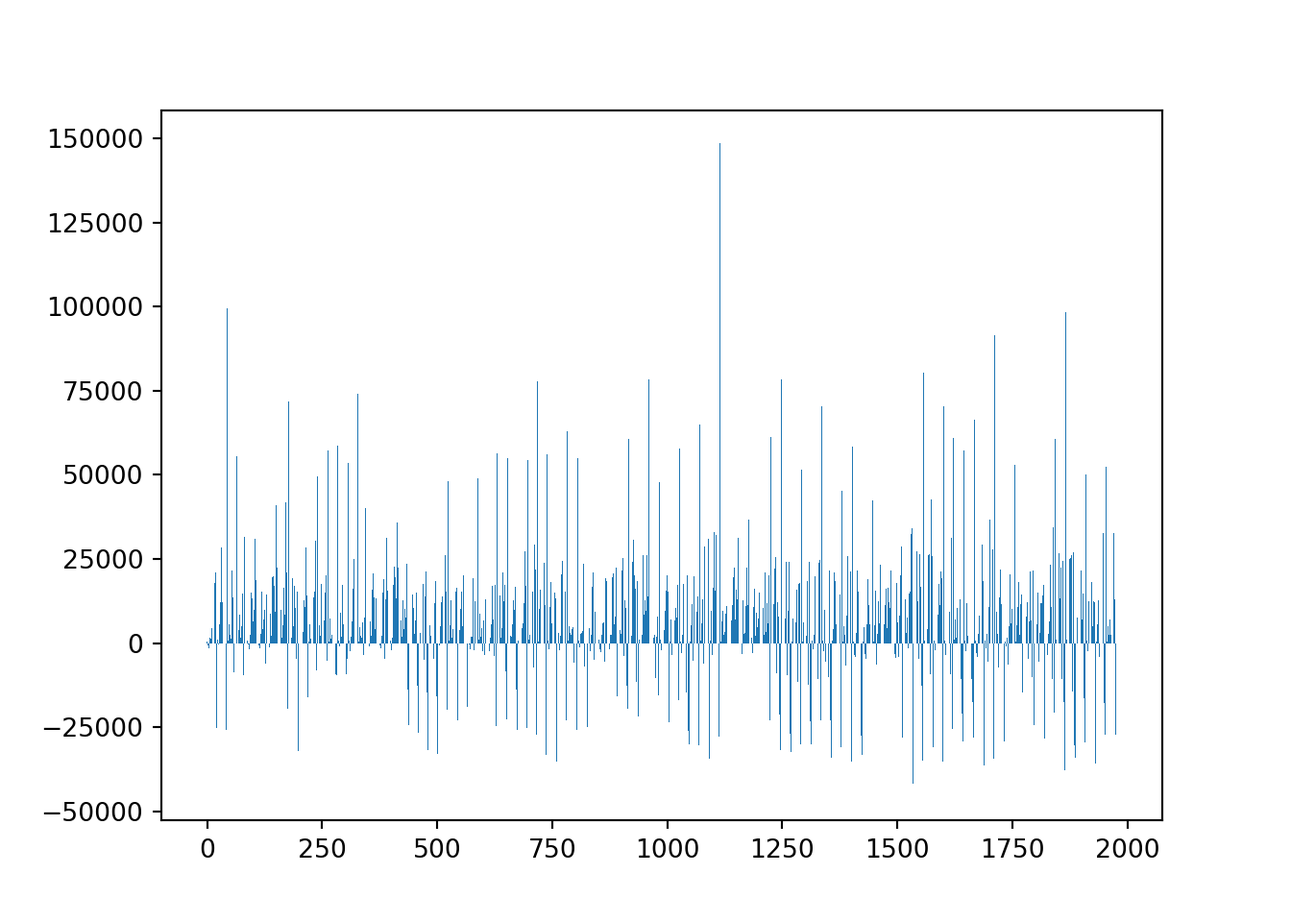
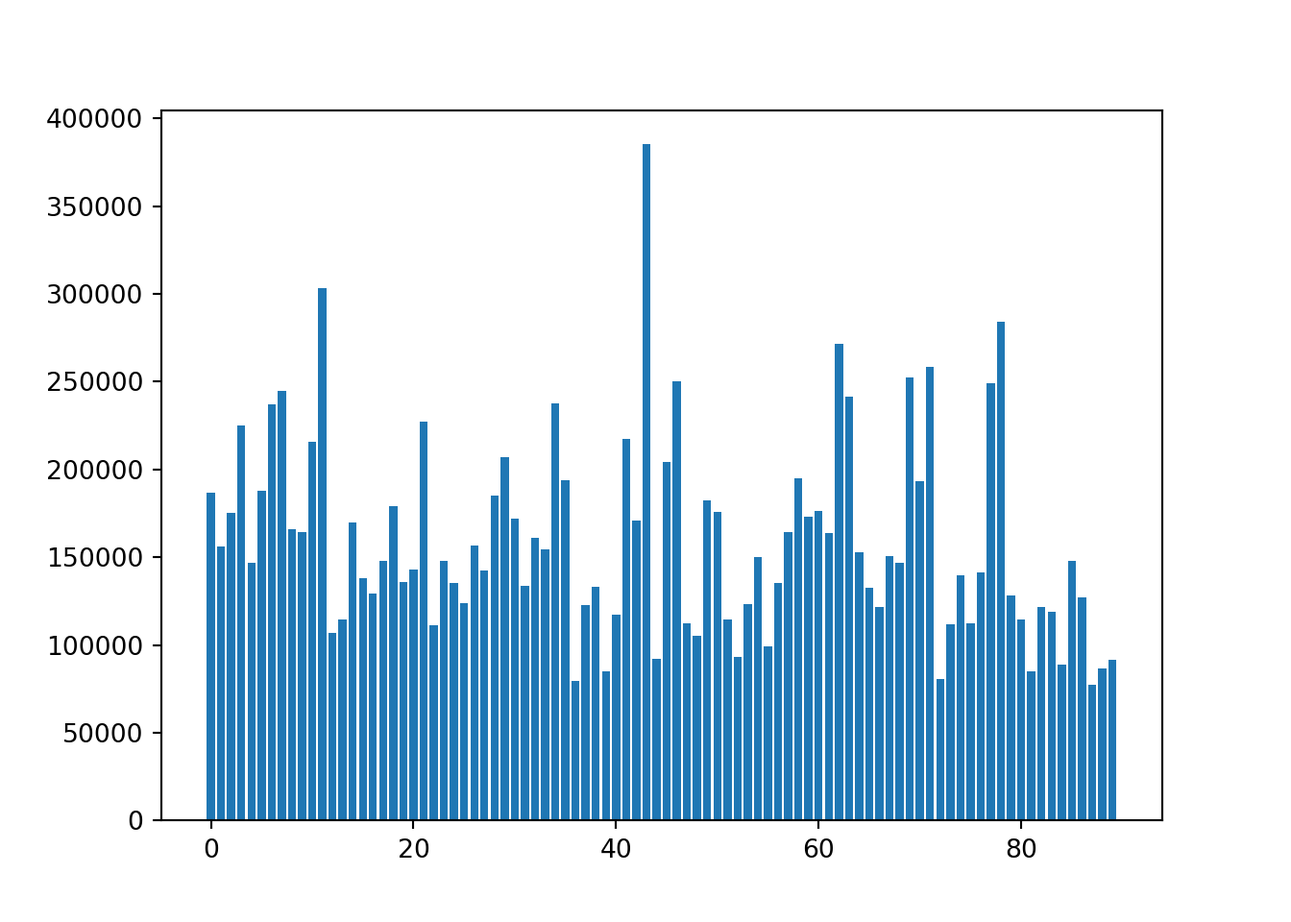
fixing marketing contribution plot

diff --git a/docs/scripting.html b/docs/scripting.html
@@ -455,23 +455,28 @@ code span.wa { color: #60a0b0; font-weight: bold; font-style: italic; } /* Warni
 <div class="sourceCode cell-code" id="cb10"><pre class="sourceCode r code-with-copy"><code class="sourceCode r"><span id="cb10-1"><a href="#cb10-1" aria-hidden="true" tabindex="-1"></a>mc <span class="ot">&lt;-</span> df <span class="sc">|&gt;</span></span>
 <span id="cb10-2"><a href="#cb10-2" aria-hidden="true" tabindex="-1"></a>  <span class="fu">mutate</span>(<span class="at">Marketing_Contribution =</span> Gross_Profit <span class="sc">-</span> Marketing_Spend)</span>
 <span id="cb10-3"><a href="#cb10-3" aria-hidden="true" tabindex="-1"></a></span>
-<span id="cb10-4"><a href="#cb10-4" aria-hidden="true" tabindex="-1"></a>mc <span class="ot">&lt;-</span> mc <span class="sc">|&gt;</span> </span>
-<span id="cb10-5"><a href="#cb10-5" aria-hidden="true" tabindex="-1"></a>  <span class="fu">mutate</span>(<span class="at">mycolor =</span> <span class="fu">ifelse</span>(Marketing_Contribution<span class="sc">&gt;</span><span class="dv">0</span>, <span class="st">"type2"</span>, <span class="st">"type1"</span>))</span>
-<span id="cb10-6"><a href="#cb10-6" aria-hidden="true" tabindex="-1"></a></span>
-<span id="cb10-7"><a href="#cb10-7" aria-hidden="true" tabindex="-1"></a><span class="fu">ggplot</span>(mc, <span class="fu">aes</span>(<span class="at">x=</span>Date, <span class="at">y=</span>Marketing_Contribution)) <span class="sc">+</span></span>
-<span id="cb10-8"><a href="#cb10-8" aria-hidden="true" tabindex="-1"></a>  <span class="fu">geom_segment</span>(<span class="fu">aes</span>(<span class="at">x=</span>Date, <span class="at">xend=</span>Date, <span class="at">y=</span><span class="dv">0</span>, <span class="at">yend=</span>Marketing_Contribution, <span class="at">color=</span>mycolor), <span class="at">size=</span><span class="fl">1.3</span>, <span class="at">alpha=</span><span class="fl">0.9</span>) <span class="sc">+</span></span>
-<span id="cb10-9"><a href="#cb10-9" aria-hidden="true" tabindex="-1"></a>  <span class="fu">theme_light</span>() <span class="sc">+</span></span>
-<span id="cb10-10"><a href="#cb10-10" aria-hidden="true" tabindex="-1"></a>  <span class="fu">theme</span>(</span>
-<span id="cb10-11"><a href="#cb10-11" aria-hidden="true" tabindex="-1"></a>    <span class="at">legend.position =</span> <span class="st">"none"</span>,</span>
-<span id="cb10-12"><a href="#cb10-12" aria-hidden="true" tabindex="-1"></a>    <span class="at">panel.border =</span> <span class="fu">element_blank</span>(),</span>
-<span id="cb10-13"><a href="#cb10-13" aria-hidden="true" tabindex="-1"></a>    <span class="at">plot.title =</span> <span class="fu">element_text</span>(<span class="at">size =</span> <span class="dv">14</span>),</span>
-<span id="cb10-14"><a href="#cb10-14" aria-hidden="true" tabindex="-1"></a>    <span class="at">panel.grid =</span> <span class="fu">element_blank</span>(),</span>
-<span id="cb10-15"><a href="#cb10-15" aria-hidden="true" tabindex="-1"></a>    <span class="at">axis.text.x=</span><span class="fu">element_blank</span>(),</span>
-<span id="cb10-16"><a href="#cb10-16" aria-hidden="true" tabindex="-1"></a>    <span class="at">axis.ticks.x=</span><span class="fu">element_blank</span>(),</span>
-<span id="cb10-17"><a href="#cb10-17" aria-hidden="true" tabindex="-1"></a>    <span class="at">axis.title.x =</span> <span class="fu">element_blank</span>(),</span>
-<span id="cb10-18"><a href="#cb10-18" aria-hidden="true" tabindex="-1"></a>    <span class="at">axis.title.y =</span> <span class="fu">element_blank</span>()</span>
-<span id="cb10-19"><a href="#cb10-19" aria-hidden="true" tabindex="-1"></a>  ) <span class="sc">+</span></span>
-<span id="cb10-20"><a href="#cb10-20" aria-hidden="true" tabindex="-1"></a>  <span class="fu">ggtitle</span>(<span class="st">"Marketing Contribution"</span>)</span></code><button title="Copy to Clipboard" class="code-copy-button"><i class="bi"></i></button></pre></div>
+<span id="cb10-4"><a href="#cb10-4" aria-hidden="true" tabindex="-1"></a>mc <span class="ot">&lt;-</span> mc <span class="sc">|&gt;</span> <span class="fu">group_by</span>(Date)</span>
+<span id="cb10-5"><a href="#cb10-5" aria-hidden="true" tabindex="-1"></a>mc <span class="ot">&lt;-</span> mc <span class="sc">|&gt;</span> <span class="fu">summarise</span>(</span>
+<span id="cb10-6"><a href="#cb10-6" aria-hidden="true" tabindex="-1"></a>    <span class="at">Marketing_Contribution =</span> <span class="fu">sum</span>(Marketing_Contribution)</span>
+<span id="cb10-7"><a href="#cb10-7" aria-hidden="true" tabindex="-1"></a>)</span>
+<span id="cb10-8"><a href="#cb10-8" aria-hidden="true" tabindex="-1"></a><span class="fu">print</span>(mc)</span></code><button title="Copy to Clipboard" class="code-copy-button"><i class="bi"></i></button></pre></div>
+<div class="cell-output cell-output-stdout">
+<pre><code># A tibble: 90 × 2
+   Date      Marketing_Contribution
+   &lt;chr&gt;                      &lt;dbl&gt;
+ 1 1/1/2017                 186891.
+ 2 1/10/2017                    NA 
+ 3 1/11/2017                175309.
+ 4 1/12/2017                    NA 
+ 5 1/13/2017                    NA 
+ 6 1/14/2017                    NA 
+ 7 1/15/2017                236828.
+ 8 1/16/2017                244637.
+ 9 1/17/2017                    NA 
+10 1/18/2017                    NA 
+# … with 80 more rows</code></pre>
+</div>
+<div class="sourceCode cell-code" id="cb12"><pre class="sourceCode r code-with-copy"><code class="sourceCode r"><span id="cb12-1"><a href="#cb12-1" aria-hidden="true" tabindex="-1"></a><span class="fu">barplot</span>(mc<span class="sc">$</span>Marketing_Contribution, <span class="at">main=</span><span class="st">"Marketing Contribution by Day"</span>, <span class="at">border=</span><span class="st">"#545658"</span>, <span class="at">col=</span><span class="st">"#ED0000"</span>)</span></code><button title="Copy to Clipboard" class="code-copy-button"><i class="bi"></i></button></pre></div>
 <div class="cell-output-display">
 <p><img src="scripting_files/figure-html/unnamed-chunk-7-1.png" class="img-fluid" width="672"></p>
 </div>
@@ -481,22 +486,22 @@ code span.wa { color: #60a0b0; font-weight: bold; font-style: italic; } /* Warni
 <h2 class="anchored" data-anchor-id="question-5">Question 5</h2>
 <p>Find correlation between Paid Search Revenue and Organic Search Revenue - as a calculation as well as a plot.</p>
 <div class="cell">
-<div class="sourceCode cell-code" id="cb11"><pre class="sourceCode r code-with-copy"><code class="sourceCode r"><span id="cb11-1"><a href="#cb11-1" aria-hidden="true" tabindex="-1"></a>search <span class="ot">&lt;-</span> df <span class="sc">|&gt;</span></span>
-<span id="cb11-2"><a href="#cb11-2" aria-hidden="true" tabindex="-1"></a>  <span class="fu">filter</span>(df<span class="sc">$</span>Channel <span class="sc">%in%</span> <span class="fu">c</span>(<span class="st">"Paid Search"</span>, <span class="st">"Organic Search"</span>))</span>
-<span id="cb11-3"><a href="#cb11-3" aria-hidden="true" tabindex="-1"></a>search <span class="ot">&lt;-</span> search <span class="sc">|&gt;</span></span>
-<span id="cb11-4"><a href="#cb11-4" aria-hidden="true" tabindex="-1"></a>  <span class="fu">mutate</span>(<span class="st">"Paid"</span> <span class="ot">=</span> <span class="fu">if_else</span>(Channel <span class="sc">==</span> <span class="st">"Paid Search"</span>, Revenue, <span class="dv">0</span>)) <span class="sc">|&gt;</span></span>
-<span id="cb11-5"><a href="#cb11-5" aria-hidden="true" tabindex="-1"></a>  <span class="fu">mutate</span>(<span class="st">"Organic"</span> <span class="ot">=</span> <span class="fu">if_else</span>(Channel <span class="sc">==</span> <span class="st">"Organic Search"</span>, Revenue, <span class="dv">0</span>))</span>
-<span id="cb11-6"><a href="#cb11-6" aria-hidden="true" tabindex="-1"></a>search <span class="ot">&lt;-</span> search <span class="sc">|&gt;</span> <span class="fu">group_by</span>(Date)</span>
-<span id="cb11-7"><a href="#cb11-7" aria-hidden="true" tabindex="-1"></a>search <span class="ot">&lt;-</span> search <span class="sc">|&gt;</span> <span class="fu">summarise</span>(</span>
-<span id="cb11-8"><a href="#cb11-8" aria-hidden="true" tabindex="-1"></a>    <span class="at">Paid =</span> <span class="fu">sum</span>(Paid),</span>
-<span id="cb11-9"><a href="#cb11-9" aria-hidden="true" tabindex="-1"></a>    <span class="at">Organic =</span> <span class="fu">sum</span>(Organic)</span>
-<span id="cb11-10"><a href="#cb11-10" aria-hidden="true" tabindex="-1"></a>)</span>
-<span id="cb11-11"><a href="#cb11-11" aria-hidden="true" tabindex="-1"></a>search[<span class="fu">is.na</span>(search)] <span class="ot">&lt;-</span> <span class="dv">0</span></span>
-<span id="cb11-12"><a href="#cb11-12" aria-hidden="true" tabindex="-1"></a><span class="fu">cor</span>(search<span class="sc">$</span>Paid, search<span class="sc">$</span>Organic)</span></code><button title="Copy to Clipboard" class="code-copy-button"><i class="bi"></i></button></pre></div>
+<div class="sourceCode cell-code" id="cb13"><pre class="sourceCode r code-with-copy"><code class="sourceCode r"><span id="cb13-1"><a href="#cb13-1" aria-hidden="true" tabindex="-1"></a>search <span class="ot">&lt;-</span> df <span class="sc">|&gt;</span></span>
+<span id="cb13-2"><a href="#cb13-2" aria-hidden="true" tabindex="-1"></a>  <span class="fu">filter</span>(df<span class="sc">$</span>Channel <span class="sc">%in%</span> <span class="fu">c</span>(<span class="st">"Paid Search"</span>, <span class="st">"Organic Search"</span>))</span>
+<span id="cb13-3"><a href="#cb13-3" aria-hidden="true" tabindex="-1"></a>search <span class="ot">&lt;-</span> search <span class="sc">|&gt;</span></span>
+<span id="cb13-4"><a href="#cb13-4" aria-hidden="true" tabindex="-1"></a>  <span class="fu">mutate</span>(<span class="st">"Paid"</span> <span class="ot">=</span> <span class="fu">if_else</span>(Channel <span class="sc">==</span> <span class="st">"Paid Search"</span>, Revenue, <span class="dv">0</span>)) <span class="sc">|&gt;</span></span>
+<span id="cb13-5"><a href="#cb13-5" aria-hidden="true" tabindex="-1"></a>  <span class="fu">mutate</span>(<span class="st">"Organic"</span> <span class="ot">=</span> <span class="fu">if_else</span>(Channel <span class="sc">==</span> <span class="st">"Organic Search"</span>, Revenue, <span class="dv">0</span>))</span>
+<span id="cb13-6"><a href="#cb13-6" aria-hidden="true" tabindex="-1"></a>search <span class="ot">&lt;-</span> search <span class="sc">|&gt;</span> <span class="fu">group_by</span>(Date)</span>
+<span id="cb13-7"><a href="#cb13-7" aria-hidden="true" tabindex="-1"></a>search <span class="ot">&lt;-</span> search <span class="sc">|&gt;</span> <span class="fu">summarise</span>(</span>
+<span id="cb13-8"><a href="#cb13-8" aria-hidden="true" tabindex="-1"></a>    <span class="at">Paid =</span> <span class="fu">sum</span>(Paid),</span>
+<span id="cb13-9"><a href="#cb13-9" aria-hidden="true" tabindex="-1"></a>    <span class="at">Organic =</span> <span class="fu">sum</span>(Organic)</span>
+<span id="cb13-10"><a href="#cb13-10" aria-hidden="true" tabindex="-1"></a>)</span>
+<span id="cb13-11"><a href="#cb13-11" aria-hidden="true" tabindex="-1"></a>search[<span class="fu">is.na</span>(search)] <span class="ot">&lt;-</span> <span class="dv">0</span></span>
+<span id="cb13-12"><a href="#cb13-12" aria-hidden="true" tabindex="-1"></a><span class="fu">cor</span>(search<span class="sc">$</span>Paid, search<span class="sc">$</span>Organic)</span></code><button title="Copy to Clipboard" class="code-copy-button"><i class="bi"></i></button></pre></div>
 <div class="cell-output cell-output-stdout">
 <pre><code>[1] 0.8457697</code></pre>
 </div>
-<div class="sourceCode cell-code" id="cb13"><pre class="sourceCode r code-with-copy"><code class="sourceCode r"><span id="cb13-1"><a href="#cb13-1" aria-hidden="true" tabindex="-1"></a><span class="fu">plot</span>(search<span class="sc">$</span>Paid, search<span class="sc">$</span>Organic)</span></code><button title="Copy to Clipboard" class="code-copy-button"><i class="bi"></i></button></pre></div>
+<div class="sourceCode cell-code" id="cb15"><pre class="sourceCode r code-with-copy"><code class="sourceCode r"><span id="cb15-1"><a href="#cb15-1" aria-hidden="true" tabindex="-1"></a><span class="fu">plot</span>(search<span class="sc">$</span>Paid, search<span class="sc">$</span>Organic)</span></code><button title="Copy to Clipboard" class="code-copy-button"><i class="bi"></i></button></pre></div>
 <div class="cell-output-display">
 <p><img src="scripting_files/figure-html/unnamed-chunk-8-1.png" class="img-fluid" width="672"></p>
 </div>
@@ -509,9 +514,9 @@ code span.wa { color: #60a0b0; font-weight: bold; font-style: italic; } /* Warni
 <h2 class="anchored" data-anchor-id="question-1-1">Question 1</h2>
 <p>Read the data into an R or Pandas data frame. Display the top 10 rows of the data frame.</p>
 <div class="cell">
-<div class="sourceCode cell-code" id="cb14"><pre class="sourceCode python code-with-copy"><code class="sourceCode python"><span id="cb14-1"><a href="#cb14-1" aria-hidden="true" tabindex="-1"></a><span class="im">import</span> pandas <span class="im">as</span> pd</span>
-<span id="cb14-2"><a href="#cb14-2" aria-hidden="true" tabindex="-1"></a>df <span class="op">=</span> pd.read_csv(<span class="st">"data/scripting-test.csv"</span>)</span>
-<span id="cb14-3"><a href="#cb14-3" aria-hidden="true" tabindex="-1"></a>df.head(<span class="dv">10</span>)</span></code><button title="Copy to Clipboard" class="code-copy-button"><i class="bi"></i></button></pre></div>
+<div class="sourceCode cell-code" id="cb16"><pre class="sourceCode python code-with-copy"><code class="sourceCode python"><span id="cb16-1"><a href="#cb16-1" aria-hidden="true" tabindex="-1"></a><span class="im">import</span> pandas <span class="im">as</span> pd</span>
+<span id="cb16-2"><a href="#cb16-2" aria-hidden="true" tabindex="-1"></a>df <span class="op">=</span> pd.read_csv(<span class="st">"data/scripting-test.csv"</span>)</span>
+<span id="cb16-3"><a href="#cb16-3" aria-hidden="true" tabindex="-1"></a>df.head(<span class="dv">10</span>)</span></code><button title="Copy to Clipboard" class="code-copy-button"><i class="bi"></i></button></pre></div>
 <div class="cell-output cell-output-stdout">
 <pre><code>       Date         Channel  ... Gross_Profit  Marketing_Spend
 0  1/1/2017  Organic Social  ...       700.84           201.79
@@ -533,22 +538,22 @@ code span.wa { color: #60a0b0; font-weight: bold; font-style: italic; } /* Warni
 <h2 class="anchored" data-anchor-id="question-2-1">Question 2</h2>
 <p>Within this 90-day data set, we observe traffic from an “Unidentified”marketing channel coming to the site. We would like to identify the number of “existing” customers by day from this channel. (“Existing” customers are defined as those who have made a purchase in the past) Please demonstrate this result in a visualization. Are there any insights that you could derive from the visualization? What is the total spend amount and daily average spend on these existing customers?</p>
 <div class="cell">
-<div class="sourceCode cell-code" id="cb16"><pre class="sourceCode python code-with-copy"><code class="sourceCode python"><span id="cb16-1"><a href="#cb16-1" aria-hidden="true" tabindex="-1"></a><span class="im">import</span> numpy <span class="im">as</span> np</span>
-<span id="cb16-2"><a href="#cb16-2" aria-hidden="true" tabindex="-1"></a><span class="im">import</span> matplotlib.pyplot <span class="im">as</span> plt</span>
-<span id="cb16-3"><a href="#cb16-3" aria-hidden="true" tabindex="-1"></a>unidentified <span class="op">=</span> df[(df.Customer_Type <span class="op">==</span> <span class="st">"EXISTING"</span>) <span class="op">&amp;</span> (df.Channel <span class="op">==</span> <span class="st">"Unidentified"</span>)]</span>
-<span id="cb16-4"><a href="#cb16-4" aria-hidden="true" tabindex="-1"></a>y_pos <span class="op">=</span> np.arange(<span class="bu">len</span>(unidentified.Date))</span>
-<span id="cb16-5"><a href="#cb16-5" aria-hidden="true" tabindex="-1"></a>plt.bar(y_pos, unidentified.Customer_Count)</span></code><button title="Copy to Clipboard" class="code-copy-button"><i class="bi"></i></button></pre></div>
+<div class="sourceCode cell-code" id="cb18"><pre class="sourceCode python code-with-copy"><code class="sourceCode python"><span id="cb18-1"><a href="#cb18-1" aria-hidden="true" tabindex="-1"></a><span class="im">import</span> numpy <span class="im">as</span> np</span>
+<span id="cb18-2"><a href="#cb18-2" aria-hidden="true" tabindex="-1"></a><span class="im">import</span> matplotlib.pyplot <span class="im">as</span> plt</span>
+<span id="cb18-3"><a href="#cb18-3" aria-hidden="true" tabindex="-1"></a>unidentified <span class="op">=</span> df[(df.Customer_Type <span class="op">==</span> <span class="st">"EXISTING"</span>) <span class="op">&amp;</span> (df.Channel <span class="op">==</span> <span class="st">"Unidentified"</span>)]</span>
+<span id="cb18-4"><a href="#cb18-4" aria-hidden="true" tabindex="-1"></a>y_pos <span class="op">=</span> np.arange(<span class="bu">len</span>(unidentified.Date))</span>
+<span id="cb18-5"><a href="#cb18-5" aria-hidden="true" tabindex="-1"></a>plt.bar(y_pos, unidentified.Customer_Count)</span></code><button title="Copy to Clipboard" class="code-copy-button"><i class="bi"></i></button></pre></div>
 </div>
 <div class="cell">
-<div class="sourceCode cell-code" id="cb17"><pre class="sourceCode python code-with-copy"><code class="sourceCode python"><span id="cb17-1"><a href="#cb17-1" aria-hidden="true" tabindex="-1"></a>plt.show()</span></code><button title="Copy to Clipboard" class="code-copy-button"><i class="bi"></i></button></pre></div>
+<div class="sourceCode cell-code" id="cb19"><pre class="sourceCode python code-with-copy"><code class="sourceCode python"><span id="cb19-1"><a href="#cb19-1" aria-hidden="true" tabindex="-1"></a>plt.show()</span></code><button title="Copy to Clipboard" class="code-copy-button"><i class="bi"></i></button></pre></div>
 <div class="cell-output-display">
 <p><img src="scripting_files/figure-html/unnamed-chunk-11-1.png" class="img-fluid" width="672"></p>
 </div>
-<div class="sourceCode cell-code" id="cb18"><pre class="sourceCode python code-with-copy"><code class="sourceCode python"><span id="cb18-1"><a href="#cb18-1" aria-hidden="true" tabindex="-1"></a>unidentified[<span class="st">"Marketing_Spend"</span>].<span class="bu">sum</span>()</span></code><button title="Copy to Clipboard" class="code-copy-button"><i class="bi"></i></button></pre></div>
+<div class="sourceCode cell-code" id="cb20"><pre class="sourceCode python code-with-copy"><code class="sourceCode python"><span id="cb20-1"><a href="#cb20-1" aria-hidden="true" tabindex="-1"></a>unidentified[<span class="st">"Marketing_Spend"</span>].<span class="bu">sum</span>()</span></code><button title="Copy to Clipboard" class="code-copy-button"><i class="bi"></i></button></pre></div>
 <div class="cell-output cell-output-stdout">
 <pre><code>330185.78</code></pre>
 </div>
-<div class="sourceCode cell-code" id="cb20"><pre class="sourceCode python code-with-copy"><code class="sourceCode python"><span id="cb20-1"><a href="#cb20-1" aria-hidden="true" tabindex="-1"></a>unidentified[<span class="st">"Marketing_Spend"</span>].mean()</span></code><button title="Copy to Clipboard" class="code-copy-button"><i class="bi"></i></button></pre></div>
+<div class="sourceCode cell-code" id="cb22"><pre class="sourceCode python code-with-copy"><code class="sourceCode python"><span id="cb22-1"><a href="#cb22-1" aria-hidden="true" tabindex="-1"></a>unidentified[<span class="st">"Marketing_Spend"</span>].mean()</span></code><button title="Copy to Clipboard" class="code-copy-button"><i class="bi"></i></button></pre></div>
 <div class="cell-output cell-output-stdout">
 <pre><code>3588.9758695652176</code></pre>
 </div>
@@ -559,16 +564,16 @@ code span.wa { color: #60a0b0; font-weight: bold; font-style: italic; } /* Warni
 <h2 class="anchored" data-anchor-id="question-3-1">Question 3</h2>
 <p>We believe that the Brand channel drives more New Customers than Existing Customers. We would like to verify this statement using the data provided. Please provide the daily difference between Brand channel’s New Customers and Existing Customers using a visualization. Are there any insights from the visualization?</p>
 <div class="cell">
-<div class="sourceCode cell-code" id="cb22"><pre class="sourceCode python code-with-copy"><code class="sourceCode python"><span id="cb22-1"><a href="#cb22-1" aria-hidden="true" tabindex="-1"></a>brand <span class="op">=</span> df[df.Channel <span class="op">==</span> <span class="st">"Brand"</span>]</span>
-<span id="cb22-2"><a href="#cb22-2" aria-hidden="true" tabindex="-1"></a>brand[<span class="st">"New"</span>] <span class="op">=</span> brand.<span class="bu">apply</span>(<span class="kw">lambda</span> x: x[<span class="st">"Customer_Count"</span>] <span class="cf">if</span> x[<span class="st">"Customer_Type"</span>] <span class="op">==</span> <span class="st">"NEW"</span> <span class="cf">else</span> <span class="dv">0</span>, axis<span class="op">=</span><span class="dv">1</span>)</span></code><button title="Copy to Clipboard" class="code-copy-button"><i class="bi"></i></button></pre></div>
-<div class="sourceCode cell-code" id="cb23"><pre class="sourceCode python code-with-copy"><code class="sourceCode python"><span id="cb23-1"><a href="#cb23-1" aria-hidden="true" tabindex="-1"></a>brand[<span class="st">"Existing"</span>] <span class="op">=</span> brand.<span class="bu">apply</span>(<span class="kw">lambda</span> x: x[<span class="st">"Customer_Count"</span>] <span class="cf">if</span> x[<span class="st">"Customer_Type"</span>] <span class="op">==</span> <span class="st">"EXISTING"</span> <span class="cf">else</span> <span class="dv">0</span>, axis<span class="op">=</span><span class="dv">1</span>)</span></code><button title="Copy to Clipboard" class="code-copy-button"><i class="bi"></i></button></pre></div>
-<div class="sourceCode cell-code" id="cb24"><pre class="sourceCode python code-with-copy"><code class="sourceCode python"><span id="cb24-1"><a href="#cb24-1" aria-hidden="true" tabindex="-1"></a>brand <span class="op">=</span> brand.groupby(<span class="st">"Date"</span>)[[<span class="st">"New"</span>, <span class="st">"Existing"</span>]].agg([<span class="st">"sum"</span>])</span>
-<span id="cb24-2"><a href="#cb24-2" aria-hidden="true" tabindex="-1"></a>brand[<span class="st">"Delta"</span>] <span class="op">=</span> brand[<span class="st">"New"</span>] <span class="op">-</span> brand[<span class="st">"Existing"</span>]</span>
-<span id="cb24-3"><a href="#cb24-3" aria-hidden="true" tabindex="-1"></a>y_pos <span class="op">=</span> np.arange(<span class="bu">len</span>(brand.index))</span>
-<span id="cb24-4"><a href="#cb24-4" aria-hidden="true" tabindex="-1"></a>plt.bar(y_pos, brand.Delta)</span></code><button title="Copy to Clipboard" class="code-copy-button"><i class="bi"></i></button></pre></div>
+<div class="sourceCode cell-code" id="cb24"><pre class="sourceCode python code-with-copy"><code class="sourceCode python"><span id="cb24-1"><a href="#cb24-1" aria-hidden="true" tabindex="-1"></a>brand <span class="op">=</span> df[df.Channel <span class="op">==</span> <span class="st">"Brand"</span>]</span>
+<span id="cb24-2"><a href="#cb24-2" aria-hidden="true" tabindex="-1"></a>brand[<span class="st">"New"</span>] <span class="op">=</span> brand.<span class="bu">apply</span>(<span class="kw">lambda</span> x: x[<span class="st">"Customer_Count"</span>] <span class="cf">if</span> x[<span class="st">"Customer_Type"</span>] <span class="op">==</span> <span class="st">"NEW"</span> <span class="cf">else</span> <span class="dv">0</span>, axis<span class="op">=</span><span class="dv">1</span>)</span></code><button title="Copy to Clipboard" class="code-copy-button"><i class="bi"></i></button></pre></div>
+<div class="sourceCode cell-code" id="cb25"><pre class="sourceCode python code-with-copy"><code class="sourceCode python"><span id="cb25-1"><a href="#cb25-1" aria-hidden="true" tabindex="-1"></a>brand[<span class="st">"Existing"</span>] <span class="op">=</span> brand.<span class="bu">apply</span>(<span class="kw">lambda</span> x: x[<span class="st">"Customer_Count"</span>] <span class="cf">if</span> x[<span class="st">"Customer_Type"</span>] <span class="op">==</span> <span class="st">"EXISTING"</span> <span class="cf">else</span> <span class="dv">0</span>, axis<span class="op">=</span><span class="dv">1</span>)</span></code><button title="Copy to Clipboard" class="code-copy-button"><i class="bi"></i></button></pre></div>
+<div class="sourceCode cell-code" id="cb26"><pre class="sourceCode python code-with-copy"><code class="sourceCode python"><span id="cb26-1"><a href="#cb26-1" aria-hidden="true" tabindex="-1"></a>brand <span class="op">=</span> brand.groupby(<span class="st">"Date"</span>)[[<span class="st">"New"</span>, <span class="st">"Existing"</span>]].agg([<span class="st">"sum"</span>])</span>
+<span id="cb26-2"><a href="#cb26-2" aria-hidden="true" tabindex="-1"></a>brand[<span class="st">"Delta"</span>] <span class="op">=</span> brand[<span class="st">"New"</span>] <span class="op">-</span> brand[<span class="st">"Existing"</span>]</span>
+<span id="cb26-3"><a href="#cb26-3" aria-hidden="true" tabindex="-1"></a>y_pos <span class="op">=</span> np.arange(<span class="bu">len</span>(brand.index))</span>
+<span id="cb26-4"><a href="#cb26-4" aria-hidden="true" tabindex="-1"></a>plt.bar(y_pos, brand.Delta)</span></code><button title="Copy to Clipboard" class="code-copy-button"><i class="bi"></i></button></pre></div>
 </div>
 <div class="cell">
-<div class="sourceCode cell-code" id="cb25"><pre class="sourceCode python code-with-copy"><code class="sourceCode python"><span id="cb25-1"><a href="#cb25-1" aria-hidden="true" tabindex="-1"></a>plt.show()</span></code><button title="Copy to Clipboard" class="code-copy-button"><i class="bi"></i></button></pre></div>
+<div class="sourceCode cell-code" id="cb27"><pre class="sourceCode python code-with-copy"><code class="sourceCode python"><span id="cb27-1"><a href="#cb27-1" aria-hidden="true" tabindex="-1"></a>plt.show()</span></code><button title="Copy to Clipboard" class="code-copy-button"><i class="bi"></i></button></pre></div>
 <div class="cell-output-display">
 <p><img src="scripting_files/figure-html/unnamed-chunk-13-3.png" class="img-fluid" width="672"></p>
 </div>
@@ -579,13 +584,14 @@ code span.wa { color: #60a0b0; font-weight: bold; font-style: italic; } /* Warni
 <h2 class="anchored" data-anchor-id="question-4-1">Question 4</h2>
 <p>Please calculate ‘Marketing_Contribution’ using formula: Marketing_Contribution = Gross_Profit - Marketing_Spend. Make a plot of the daily Marketing_Contribution at the aggregated level (for all channels and customer types together)</p>
 <div class="cell">
-<div class="sourceCode cell-code" id="cb26"><pre class="sourceCode python code-with-copy"><code class="sourceCode python"><span id="cb26-1"><a href="#cb26-1" aria-hidden="true" tabindex="-1"></a>mc <span class="op">=</span> df</span>
-<span id="cb26-2"><a href="#cb26-2" aria-hidden="true" tabindex="-1"></a>mc[<span class="st">"Marketing_Contribution"</span>] <span class="op">=</span> mc[<span class="st">"Gross_Profit"</span>] <span class="op">-</span> mc[<span class="st">"Marketing_Spend"</span>]</span>
-<span id="cb26-3"><a href="#cb26-3" aria-hidden="true" tabindex="-1"></a>y_pos <span class="op">=</span> np.arange(<span class="bu">len</span>(mc.Date))</span>
-<span id="cb26-4"><a href="#cb26-4" aria-hidden="true" tabindex="-1"></a>plt.bar(y_pos, mc.Marketing_Contribution)</span></code><button title="Copy to Clipboard" class="code-copy-button"><i class="bi"></i></button></pre></div>
+<div class="sourceCode cell-code" id="cb28"><pre class="sourceCode python code-with-copy"><code class="sourceCode python"><span id="cb28-1"><a href="#cb28-1" aria-hidden="true" tabindex="-1"></a>mc <span class="op">=</span> df</span>
+<span id="cb28-2"><a href="#cb28-2" aria-hidden="true" tabindex="-1"></a>mc[<span class="st">"Marketing_Contribution"</span>] <span class="op">=</span> mc[<span class="st">"Gross_Profit"</span>] <span class="op">-</span> mc[<span class="st">"Marketing_Spend"</span>]</span>
+<span id="cb28-3"><a href="#cb28-3" aria-hidden="true" tabindex="-1"></a>mc_grouped <span class="op">=</span> mc.groupby(<span class="st">"Date"</span>)[<span class="st">"Marketing_Contribution"</span>].<span class="bu">sum</span>()</span>
+<span id="cb28-4"><a href="#cb28-4" aria-hidden="true" tabindex="-1"></a>y_pos <span class="op">=</span> np.arange(<span class="bu">len</span>(mc_grouped.index))</span>
+<span id="cb28-5"><a href="#cb28-5" aria-hidden="true" tabindex="-1"></a>plt.bar(y_pos, mc_grouped)</span></code><button title="Copy to Clipboard" class="code-copy-button"><i class="bi"></i></button></pre></div>
 </div>
 <div class="cell">
-<div class="sourceCode cell-code" id="cb27"><pre class="sourceCode python code-with-copy"><code class="sourceCode python"><span id="cb27-1"><a href="#cb27-1" aria-hidden="true" tabindex="-1"></a>plt.show()</span></code><button title="Copy to Clipboard" class="code-copy-button"><i class="bi"></i></button></pre></div>
+<div class="sourceCode cell-code" id="cb29"><pre class="sourceCode python code-with-copy"><code class="sourceCode python"><span id="cb29-1"><a href="#cb29-1" aria-hidden="true" tabindex="-1"></a>plt.show()</span></code><button title="Copy to Clipboard" class="code-copy-button"><i class="bi"></i></button></pre></div>
 <div class="cell-output-display">
 <p><img src="scripting_files/figure-html/unnamed-chunk-15-5.png" class="img-fluid" width="672"></p>
 </div>
@@ -595,21 +601,21 @@ code span.wa { color: #60a0b0; font-weight: bold; font-style: italic; } /* Warni
 <h2 class="anchored" data-anchor-id="question-5-1">Question 5</h2>
 <p>Find correlation between Paid Search Revenue and Organic Search Revenue - as a calculation as well as a plot.</p>
 <div class="cell">
-<div class="sourceCode cell-code" id="cb28"><pre class="sourceCode python code-with-copy"><code class="sourceCode python"><span id="cb28-1"><a href="#cb28-1" aria-hidden="true" tabindex="-1"></a>search <span class="op">=</span> df[(df.Channel <span class="op">==</span> <span class="st">"Paid Search"</span>) <span class="op">|</span> (df.Channel <span class="op">==</span> <span class="st">"Organic Search"</span>)]</span>
-<span id="cb28-2"><a href="#cb28-2" aria-hidden="true" tabindex="-1"></a>search[<span class="st">"Paid"</span>] <span class="op">=</span> search.<span class="bu">apply</span>(<span class="kw">lambda</span> x: x[<span class="st">"Revenue"</span>] <span class="cf">if</span> x[<span class="st">"Channel"</span>] <span class="op">==</span> <span class="st">"Paid Search"</span> <span class="cf">else</span> <span class="dv">0</span>, axis<span class="op">=</span><span class="dv">1</span>)</span></code><button title="Copy to Clipboard" class="code-copy-button"><i class="bi"></i></button></pre></div>
-<div class="sourceCode cell-code" id="cb29"><pre class="sourceCode python code-with-copy"><code class="sourceCode python"><span id="cb29-1"><a href="#cb29-1" aria-hidden="true" tabindex="-1"></a>search[<span class="st">"Organic"</span>] <span class="op">=</span> search.<span class="bu">apply</span>(<span class="kw">lambda</span> x: x[<span class="st">"Revenue"</span>] <span class="cf">if</span> x[<span class="st">"Channel"</span>] <span class="op">==</span> <span class="st">"Organic Search"</span> <span class="cf">else</span> <span class="dv">0</span>, axis<span class="op">=</span><span class="dv">1</span>)</span></code><button title="Copy to Clipboard" class="code-copy-button"><i class="bi"></i></button></pre></div>
-<div class="sourceCode cell-code" id="cb30"><pre class="sourceCode python code-with-copy"><code class="sourceCode python"><span id="cb30-1"><a href="#cb30-1" aria-hidden="true" tabindex="-1"></a>search <span class="op">=</span> search.groupby(<span class="st">"Date"</span>)[[<span class="st">"Paid"</span>, <span class="st">"Organic"</span>]].agg([<span class="st">"sum"</span>])</span></code><button title="Copy to Clipboard" class="code-copy-button"><i class="bi"></i></button></pre></div>
+<div class="sourceCode cell-code" id="cb30"><pre class="sourceCode python code-with-copy"><code class="sourceCode python"><span id="cb30-1"><a href="#cb30-1" aria-hidden="true" tabindex="-1"></a>search <span class="op">=</span> df[(df.Channel <span class="op">==</span> <span class="st">"Paid Search"</span>) <span class="op">|</span> (df.Channel <span class="op">==</span> <span class="st">"Organic Search"</span>)]</span>
+<span id="cb30-2"><a href="#cb30-2" aria-hidden="true" tabindex="-1"></a>search[<span class="st">"Paid"</span>] <span class="op">=</span> search.<span class="bu">apply</span>(<span class="kw">lambda</span> x: x[<span class="st">"Revenue"</span>] <span class="cf">if</span> x[<span class="st">"Channel"</span>] <span class="op">==</span> <span class="st">"Paid Search"</span> <span class="cf">else</span> <span class="dv">0</span>, axis<span class="op">=</span><span class="dv">1</span>)</span></code><button title="Copy to Clipboard" class="code-copy-button"><i class="bi"></i></button></pre></div>
+<div class="sourceCode cell-code" id="cb31"><pre class="sourceCode python code-with-copy"><code class="sourceCode python"><span id="cb31-1"><a href="#cb31-1" aria-hidden="true" tabindex="-1"></a>search[<span class="st">"Organic"</span>] <span class="op">=</span> search.<span class="bu">apply</span>(<span class="kw">lambda</span> x: x[<span class="st">"Revenue"</span>] <span class="cf">if</span> x[<span class="st">"Channel"</span>] <span class="op">==</span> <span class="st">"Organic Search"</span> <span class="cf">else</span> <span class="dv">0</span>, axis<span class="op">=</span><span class="dv">1</span>)</span></code><button title="Copy to Clipboard" class="code-copy-button"><i class="bi"></i></button></pre></div>
+<div class="sourceCode cell-code" id="cb32"><pre class="sourceCode python code-with-copy"><code class="sourceCode python"><span id="cb32-1"><a href="#cb32-1" aria-hidden="true" tabindex="-1"></a>search <span class="op">=</span> search.groupby(<span class="st">"Date"</span>)[[<span class="st">"Paid"</span>, <span class="st">"Organic"</span>]].agg([<span class="st">"sum"</span>])</span></code><button title="Copy to Clipboard" class="code-copy-button"><i class="bi"></i></button></pre></div>
 </div>
 <div class="cell">
-<div class="sourceCode cell-code" id="cb31"><pre class="sourceCode python code-with-copy"><code class="sourceCode python"><span id="cb31-1"><a href="#cb31-1" aria-hidden="true" tabindex="-1"></a>search.corr()</span></code><button title="Copy to Clipboard" class="code-copy-button"><i class="bi"></i></button></pre></div>
+<div class="sourceCode cell-code" id="cb33"><pre class="sourceCode python code-with-copy"><code class="sourceCode python"><span id="cb33-1"><a href="#cb33-1" aria-hidden="true" tabindex="-1"></a>search.corr()</span></code><button title="Copy to Clipboard" class="code-copy-button"><i class="bi"></i></button></pre></div>
 <div class="cell-output cell-output-stdout">
 <pre><code>                Paid  Organic
                  sum      sum
 Paid    sum  1.00000  0.84577
 Organic sum  0.84577  1.00000</code></pre>
 </div>
-<div class="sourceCode cell-code" id="cb33"><pre class="sourceCode python code-with-copy"><code class="sourceCode python"><span id="cb33-1"><a href="#cb33-1" aria-hidden="true" tabindex="-1"></a>plt.scatter(search.Paid, search.Organic)</span>
-<span id="cb33-2"><a href="#cb33-2" aria-hidden="true" tabindex="-1"></a>plt.show()</span></code><button title="Copy to Clipboard" class="code-copy-button"><i class="bi"></i></button></pre></div>
+<div class="sourceCode cell-code" id="cb35"><pre class="sourceCode python code-with-copy"><code class="sourceCode python"><span id="cb35-1"><a href="#cb35-1" aria-hidden="true" tabindex="-1"></a>plt.scatter(search.Paid, search.Organic)</span>
+<span id="cb35-2"><a href="#cb35-2" aria-hidden="true" tabindex="-1"></a>plt.show()</span></code><button title="Copy to Clipboard" class="code-copy-button"><i class="bi"></i></button></pre></div>
 <div class="cell-output-display">
 <p><img src="scripting_files/figure-html/unnamed-chunk-17-7.png" class="img-fluid" width="672"></p>
 </div>
